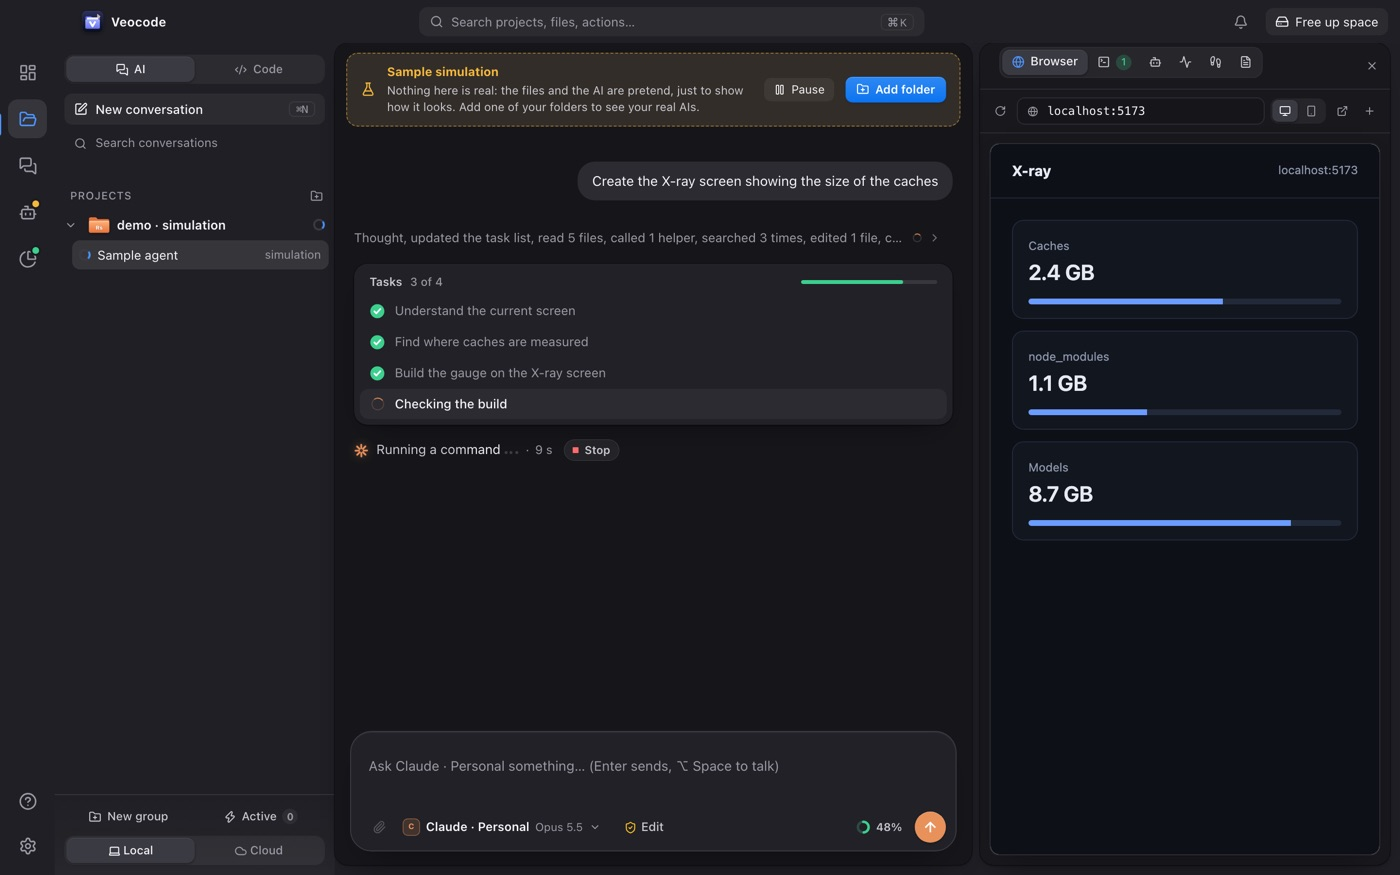
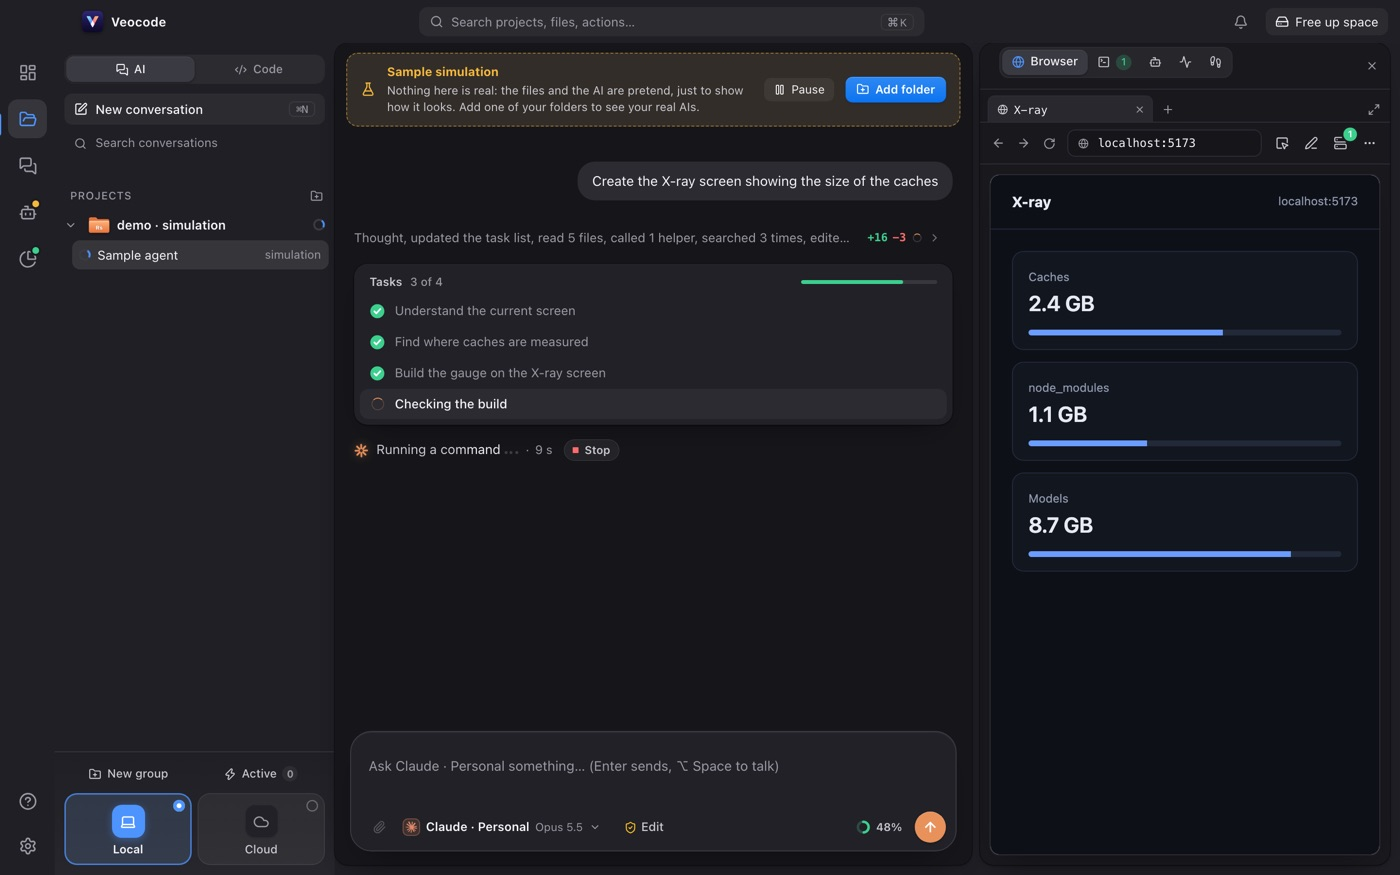
Veocode 0.8.0: Home screen chapter and new screenshots
- Download points to v0.8.0.
- New "Início" chapter on the Veocode page with the Home screenshot:
  a column per project, conversation tabs, AI or Code in each column
  and the clickable +N −N counts (strings in en, es and ru).
- Home screenshot added to the Veocode gallery on the main page and the
  Projects screenshot refreshed.

diff --git a/veocode/strings.js b/veocode/strings.js
@@ -102,4 +102,14 @@ window.WITCH_STRINGS = Object.freeze({
   "Aviso": ["Notice", "Aviso", "Примечание"],
   "Não é afiliado à Anthropic, à OpenAI, à DeepSeek nem ao Ollama.": ["Not affiliated with Anthropic, OpenAI, DeepSeek or Ollama.", "No está afiliado a Anthropic, OpenAI, DeepSeek ni Ollama.", "Не связано с Anthropic, OpenAI, DeepSeek и Ollama."],
   "Veocode · Veja e controle o que as IAs fazem no seu Mac": ["Veocode · See and control what AI does on your Mac", "Veocode · Mira y controla lo que hacen las IA en tu Mac", "Veocode · Смотрите и управляйте тем, что ИИ делает на Mac"],
+  "Início": ["Home", "Inicio", "Главная"],
+  "Todos os projetos, lado a lado.": ["Every project, side by side.", "Todos los proyectos, lado a lado.", "Все проекты рядом."],
+  "A tela Início põe cada projeto numa coluna, com a conversa inteira, do jeito que ela é dentro do projeto. Cabem até oito na tela; os outros esperam na barra de cima, a um clique.": ["The Home screen puts each project in a column, with the whole conversation, just as it is inside the project. Up to eight fit on screen; the rest wait in the bar at the top, one click away.", "La pantalla Inicio pone cada proyecto en una columna, con la conversación completa, tal como es dentro del proyecto. Caben hasta ocho en pantalla; los demás esperan en la barra de arriba, a un clic.", "Главный экран показывает каждый проект в отдельной колонке с полным диалогом — таким же, как внутри проекта. На экране помещается до восьми; остальные ждут в верхней панели, в один клик."],
+  "Várias conversas por projeto": ["Several conversations per project", "Varias conversaciones por proyecto", "Несколько диалогов в проекте"],
+  ": abas no topo de cada coluna, com a bolinha de quem está trabalhando ou esperando você.": [": tabs at the top of each column, with a dot showing which one is working or waiting for you.", ": pestañas arriba de cada columna, con un punto que indica cuál está trabajando o esperándote.", ": вкладки вверху каждой колонки с точкой, которая показывает, какой диалог работает или ждёт вас."],
+  "IA ou Código, em cada coluna": ["AI or Code, in each column", "IA o Código, en cada columna", "ИИ или код — в каждой колонке"],
+  ": a árvore de arquivos, vários arquivos abertos em abas para editar, as mudanças com o commit e o terminal.": [": the file tree, several files open in tabs to edit, the changes with the commit and the terminal.", ": el árbol de archivos, varios archivos abiertos en pestañas para editar, los cambios con el commit y la terminal.", ": дерево файлов, несколько файлов во вкладках для правки, изменения с коммитом и терминал."],
+  "+12 −3 clicável": ["Clickable +12 −3", "+12 −3 que se puede tocar", "Кликабельные +12 −3"],
+  ": as linhas que a IA mudou, em verde e vermelho. Um clique mostra a mudança no modo Código.": [": the lines the AI changed, in green and red. One click shows the change in Code mode.", ": las líneas que cambió la IA, en verde y rojo. Un clic muestra el cambio en el modo Código.", ": строки, которые изменил ИИ, зелёным и красным. Один клик показывает изменение в режиме кода."],
+  "A tela Início: um projeto com a IA trabalhando e a lista de tarefas, e outro no modo Código com a árvore de arquivos e o editor": ["The Home screen: one project with the AI at work and its task list, another in Code mode with the file tree and the editor", "La pantalla Inicio: un proyecto con la IA trabajando y la lista de tareas, y otro en modo Código con el árbol de archivos y el editor", "Главный экран: в одном проекте работает ИИ со списком задач, другой открыт в режиме кода с деревом файлов и редактором"],
 });

diff --git a/veocode/index.html b/veocode/index.html
@@ -64,7 +64,7 @@
     </div>
     <p class="req"><span data-version="veocode" data-no-i18n></span> macOS 13 ou mais novo · Apple Silicon e Intel · Gratuito</p>
     <div class="wu-stage">
-      <figure class="wu-main"><button class="shot" type="button"><img src="../assets/shots/veocode/projects.jpg?v=202611201500" alt="Um projeto no modo IA com o agente trabalhando: a lista de tarefas, o passo ao vivo com o botão Parar e o app rodando no navegador" width="1400" height="875"></button></figure>
+      <figure class="wu-main"><button class="shot" type="button"><img src="../assets/shots/veocode/projects.jpg?v=202611211800" alt="Um projeto no modo IA com o agente trabalhando: a lista de tarefas, o passo ao vivo com o botão Parar e o app rodando no navegador" width="1400" height="875"></button></figure>
     </div>
     <div class="wu-stats">
       <div><b>4</b><span>tipos de IA: Claude, DeepSeek, OpenAI e Ollama</span></div>
@@ -80,6 +80,22 @@
       <article class="card"><h3>Quem está fazendo o quê?</h3><p>O Claude aberto em três terminais, dois editores e no app. Qual está trabalhando, qual espera a sua aprovação, e com qual conta?</p></article>
       <article class="card"><h3>O que ficou para trás?</h3><p>Pacotes instalados no computador todo, modelos baixados, containers ligados e servidores ocupando portas depois que a sessão fechou.</p></article>
       <article class="card"><h3>Quanto pesa?</h3><p>Caches, históricos e ambientes que crescem até dezenas de GB, e extras que gastam tokens em toda conversa sem ninguém lembrar que estão lá.</p></article>
+    </div>
+  </section>
+
+  <section class="section container wu-chapter">
+    <div class="wu-split reverse">
+      <div class="wu-copy">
+        <p class="wu-kicker">Início</p>
+        <h2>Todos os projetos, lado a lado.</h2>
+        <p>A tela Início põe cada projeto numa coluna, com a conversa inteira, do jeito que ela é dentro do projeto. Cabem até oito na tela; os outros esperam na barra de cima, a um clique.</p>
+        <ul class="wu-list">
+          <li><b>Várias conversas por projeto</b>: abas no topo de cada coluna, com a bolinha de quem está trabalhando ou esperando você.</li>
+          <li><b>IA ou Código, em cada coluna</b>: a árvore de arquivos, vários arquivos abertos em abas para editar, as mudanças com o commit e o terminal.</li>
+          <li><b>+12 −3 clicável</b>: as linhas que a IA mudou, em verde e vermelho. Um clique mostra a mudança no modo Código.</li>
+        </ul>
+      </div>
+      <div class="wu-media"><figure><button class="shot" type="button"><img src="../assets/shots/veocode/home.jpg?v=202611211800" alt="A tela Início: um projeto com a IA trabalhando e a lista de tarefas, e outro no modo Código com a árvore de arquivos e o editor" loading="lazy" width="1400" height="875"></button></figure></div>
     </div>
   </section>
 

diff --git a/i18n-strings.js b/i18n-strings.js
@@ -778,6 +778,7 @@ window.WITCH_STRINGS = Object.freeze({
   "Veja e controle o que as IAs fazem no seu Mac": ["See and control what AI does on your Mac", "Mira y controla lo que hacen las IA en tu Mac", "Смотрите и управляйте тем, что ИИ делает на Mac"],
   "Projetos com o mapa de cada um, contas de IA e tudo o que os agentes deixam para trás: caches, instalações, containers e servidores esquecidos. Claude, DeepSeek, OpenAI e Ollama.": ["Projects with a map of each one, AI accounts and everything agents leave behind: caches, installs, containers and forgotten servers. Claude, DeepSeek, OpenAI and Ollama.", "Proyectos con el mapa de cada uno, cuentas de IA y todo lo que los agentes dejan atrás: cachés, instalaciones, contenedores y servidores olvidados. Claude, DeepSeek, OpenAI y Ollama.", "Проекты с картой каждого, аккаунты ИИ и всё, что оставляют агенты: кэши, установки, контейнеры и забытые серверы. Claude, DeepSeek, OpenAI и Ollama."],
   "Mapa do projeto: as áreas do código e quem usa quem": ["Project map: the code's areas and who uses whom", "Mapa del proyecto: las áreas del código y quién usa a quién", "Карта проекта: области кода и кто кого использует"],
+  "A tela Início com cada projeto numa coluna": ["The Home screen with each project in a column", "La pantalla Inicio con cada proyecto en una columna", "Главный экран: каждый проект в своей колонке"],
   "Um projeto no modo IA com o agente trabalhando": ["A project in AI mode with the agent at work", "Un proyecto en modo IA con el agente trabajando", "Проект в режиме ИИ, агент работает"],
   "Espaço e memória: o que as IAs deixaram no disco": ["Space and memory: what the AIs left on disk", "Espacio y memoria: lo que las IA dejaron en el disco", "Место и память: что ИИ оставили на диске"],
   "Portas abertas com um servidor que sobrou de uma sessão fechada": ["Open ports with a server left over from a closed session", "Puertos abiertos con un servidor que quedó de una sesión cerrada", "Открытые порты: сервер, оставшийся после закрытой сессии"],

diff --git a/index.html b/index.html
@@ -937,7 +937,8 @@
             <div class="ql-stage"></div>
             <div class="ql-thumbs" role="group" aria-label="Capturas de tela">
             <button class="shot" type="button"><img data-src="assets/shots/veocode/map.jpg?v=202611201500" alt="Mapa do projeto: as áreas do código e quem usa quem" width="1400" height="875"></button>
-            <button class="shot" type="button"><img data-src="assets/shots/veocode/projects.jpg?v=202611201500" alt="Um projeto no modo IA com o agente trabalhando" width="1400" height="875"></button>
+            <button class="shot" type="button"><img data-src="assets/shots/veocode/home.jpg?v=202611211800" alt="A tela Início com cada projeto numa coluna" width="1400" height="875"></button>
+            <button class="shot" type="button"><img data-src="assets/shots/veocode/projects.jpg?v=202611211800" alt="Um projeto no modo IA com o agente trabalhando" width="1400" height="875"></button>
             <button class="shot" type="button"><img data-src="assets/shots/veocode/space.jpg?v=202611201500" alt="Espaço e memória: o que as IAs deixaram no disco" width="1400" height="875"></button>
             <button class="shot" type="button"><img data-src="assets/shots/veocode/ports.jpg?v=202611201500" alt="Portas abertas com um servidor que sobrou de uma sessão fechada" width="1400" height="875"></button>
             <button class="shot" type="button"><img data-src="assets/shots/veocode/accounts.jpg?v=202611201500" alt="Contas e IAs com os limites de cada plano" width="1400" height="875"></button>

diff --git a/apps.js b/apps.js
@@ -19,7 +19,7 @@ window.WITCH_APPS = Object.freeze({
   rubbishnotes: Object.freeze({ repo: 'rubbish-notes', tag: 'v1.2.1',        file: 'RubbishNotes-1.2.1.dmg', published: true, app: 'Rubbish Notes.app' }),
   excaliburforms: Object.freeze({ repo: 'ExcaliburForms', tag: 'v1.0.0',     file: 'ExcaliburForms-1.0.0.dmg', published: true, app: 'ExcaliburForms.app' }),
   wineup:       Object.freeze({ repo: 'wineup-player', tag: 'v1.1.1',      file: 'WineupPlayer-1.1.1.dmg', published: true, app: 'Wineup Player.app' }),
-  veocode:      Object.freeze({ repo: 'Veocode',       tag: 'v0.7.1',        file: 'Veocode-0.7.1.dmg',      published: true, app: 'Veocode.app' }),
+  veocode:      Object.freeze({ repo: 'Veocode',       tag: 'v0.8.0',        file: 'Veocode-0.8.0.dmg',      published: true, app: 'Veocode.app' }),
   kaveelsbook:  Object.freeze({ repo: 'kaveels-book-studio', tag: 'v0.1.2', file: 'KaveelsBookStudio-mac.dmg', published: true, app: "Kaveel's Book Studio.app" }),
   santovideoplayer: Object.freeze({ repo: 'santo-video-player', tag: 'v2.0.2', file: 'SantoVideoPlayer-2.0.2.dmg', published: true, app: 'Santo Video Player.app' }),
   manhwafy:     Object.freeze({ repo: 'ManhwaFy',      tag: 'v0.1.0',        file: 'ManhwaFy-0.1.0.dmg',     published: true, app: 'ManhwaFy.app' }),
